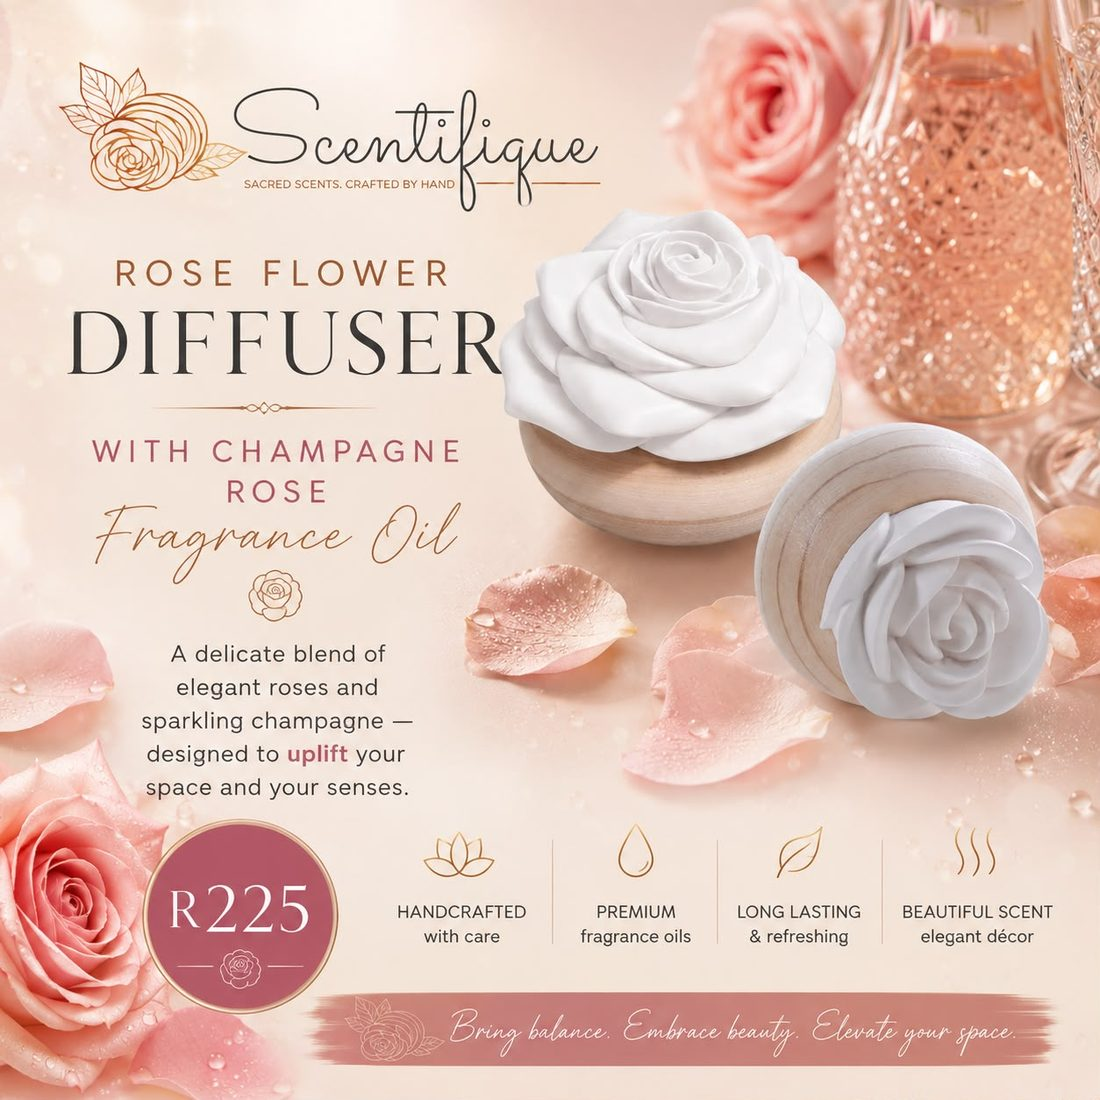
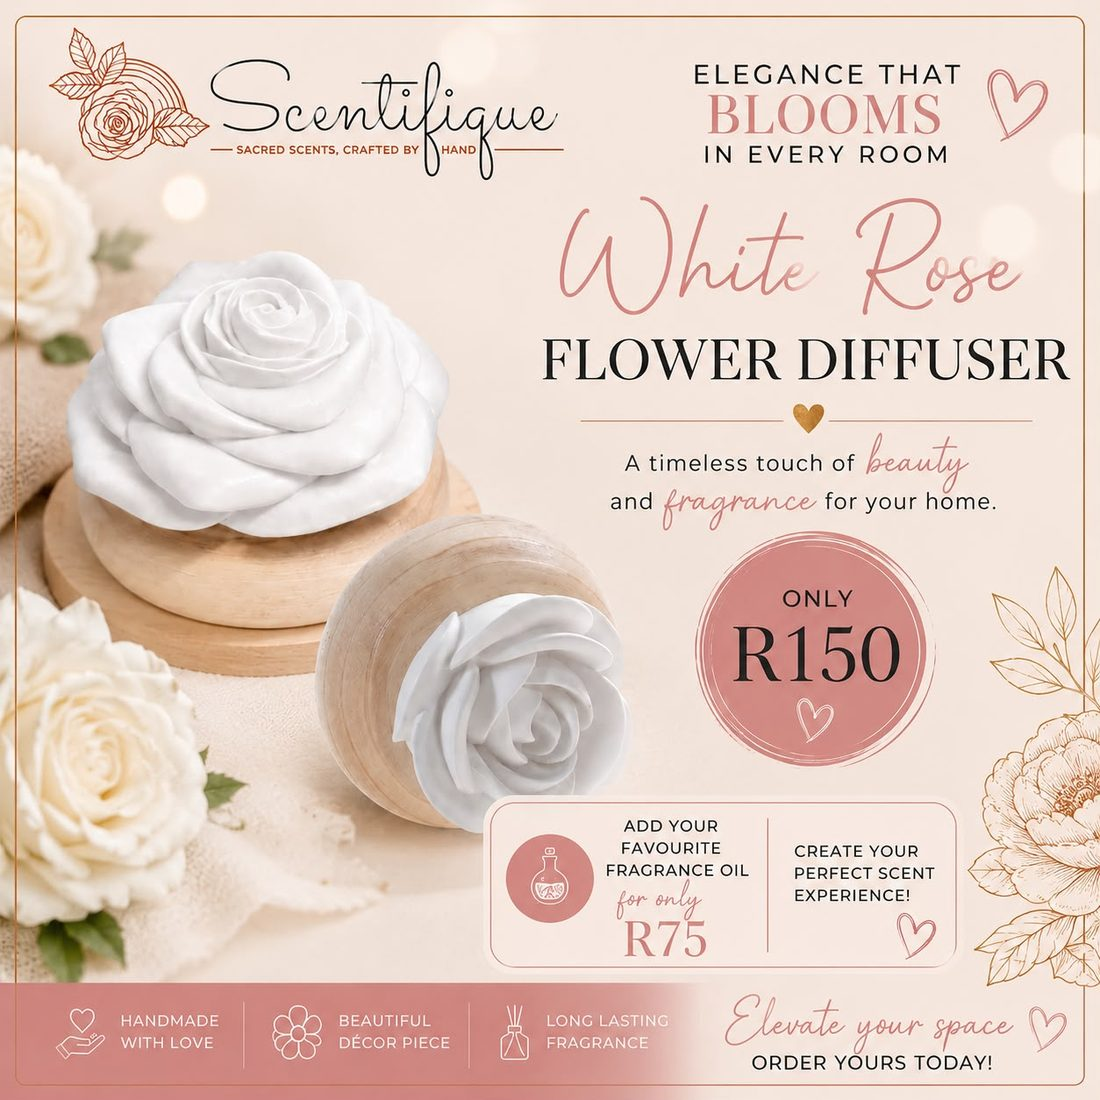
Scentifique: replace diffuser combo cards, remove catalogue, round oil price
- Rose/Lotus/Peony Flower Diffuser combo cards replaced with individual
  product cards and corrected prices: White Rose Flower Diffuser R150,
  White Lotus Flower Diffuser R150, Peony Flower Diffusers R180
  (previously all incorrectly listed at R225 as bundled combos)
- Removed the browsable Product Catalogue section and its nav link
- Fragrance Oil 10ml rounded from R74.99 to R75

diff --git a/scentifique.html b/scentifique.html
@@ -255,8 +255,7 @@ footer{background:var(--bg2);border-top:1px solid var(--border);padding:40px 32p
     <a href="#diffusers">Flower Diffusers</a>
     <a href="#trays">Trays &amp; Decor</a>
     <a href="#gifts">Gift Sets</a>
-    <a href="#catalogue">Catalogue</a>
-  </div>
+      </div>
 </div>
 
 <!-- ══════════════════════════════════════════════════════ -->
@@ -295,7 +294,7 @@ footer{background:var(--bg2);border-top:1px solid var(--border);padding:40px 32p
         <div class="badge badge-gold">Available</div>
         <div class="product-name">Fragrance Oil 10ml</div>
         <div class="product-sub">Handcrafted fragrance oil in 13 scents — see the scent list above and specify when ordering.</div>
-        <div class="product-footer"><span class="product-price">R74.99</span><button class="add-btn" onclick="addToCart('Fragrance Oil 10ml — Scentifique (specify scent)','R74.99','scentifique-fragrance-oil-card.jpg')">+ Add to Order</button></div>
+        <div class="product-footer"><span class="product-price">R75</span><button class="add-btn" onclick="addToCart('Fragrance Oil 10ml — Scentifique (specify scent)','R75','scentifique-fragrance-oil-card.jpg')">+ Add to Order</button></div>
       </div>
     </div>
 
@@ -338,22 +337,22 @@ footer{background:var(--bg2);border-top:1px solid var(--border);padding:40px 32p
     </div>
 
     <div class="product-card">
-      <img src="scentifique-peony-diffuser-combo.jpg" alt="Peony Flower Diffuser with Peony Suede Musk Oil" loading="lazy"/>
+      <img src="scentifique-peony-diffuser-combo.jpg" alt="Peony Flower Diffusers" loading="lazy"/>
       <div class="product-info">
         <div class="badge badge-gold">Available</div>
-        <div class="product-name">Peony Flower Diffuser</div>
+        <div class="product-name">Peony Flower Diffusers</div>
         <div class="product-sub">Handcrafted peony diffuser on a wooden base, paired with Peony Suede Musk fragrance oil.</div>
-        <div class="product-footer"><span class="product-price">R225</span><button class="add-btn" onclick="addToCart('Peony Flower Diffuser + Peony Suede Musk Oil — Scentifique','R225','scentifique-peony-diffuser-combo.jpg')">+ Add to Order</button></div>
+        <div class="product-footer"><span class="product-price">R180</span><button class="add-btn" onclick="addToCart('Peony Flower Diffusers (specify colour) — Scentifique','R180','scentifique-peony-diffuser-combo.jpg')">+ Add to Order</button></div>
       </div>
     </div>
 
     <div class="product-card">
-      <img src="scentifique-rose-diffuser-combo.jpg" alt="Rose Flower Diffuser with Champagne Rose Oil" loading="lazy"/>
+      <img src="scentifique-rose-diffuser-combo.jpg" alt="White Rose Flower Diffuser" loading="lazy"/>
       <div class="product-info">
         <div class="badge badge-gold">Available</div>
-        <div class="product-name">Rose Flower Diffuser</div>
+        <div class="product-name">White Rose Flower Diffuser</div>
         <div class="product-sub">Handcrafted rose diffuser on a wooden base, paired with Champagne Rose fragrance oil.</div>
-        <div class="product-footer"><span class="product-price">R225</span><button class="add-btn" onclick="addToCart('Rose Flower Diffuser + Champagne Rose Oil — Scentifique','R225','scentifique-rose-diffuser-combo.jpg')">+ Add to Order</button></div>
+        <div class="product-footer"><span class="product-price">R150</span><button class="add-btn" onclick="addToCart('White Rose Flower Diffuser — Scentifique','R150','scentifique-rose-diffuser-combo.jpg')">+ Add to Order</button></div>
       </div>
     </div>
 
@@ -369,12 +368,12 @@ footer{background:var(--bg2);border-top:1px solid var(--border);padding:40px 32p
     </div>
 
     <div class="product-card">
-      <img src="scentifique-lotus-diffuser-combo.jpg" alt="Lotus Flower Diffuser with Lotus & Dragonfruit Oil" loading="lazy"/>
+      <img src="scentifique-lotus-diffuser-combo.jpg" alt="White Lotus Flower Diffuser" loading="lazy"/>
       <div class="product-info">
         <div class="badge badge-gold">Available</div>
-        <div class="product-name">Lotus Flower Diffuser</div>
+        <div class="product-name">White Lotus Flower Diffuser</div>
         <div class="product-sub">Handcrafted lotus diffuser on a wooden base, paired with Lotus &amp; Dragonfruit fragrance oil.</div>
-        <div class="product-footer"><span class="product-price">R225</span><button class="add-btn" onclick="addToCart('Lotus Flower Diffuser + Lotus & Dragonfruit Oil — Scentifique','R225','scentifique-lotus-diffuser-combo.jpg')">+ Add to Order</button></div>
+        <div class="product-footer"><span class="product-price">R150</span><button class="add-btn" onclick="addToCart('White Lotus Flower Diffuser — Scentifique','R150','scentifique-lotus-diffuser-combo.jpg')">+ Add to Order</button></div>
       </div>
     </div>
 
@@ -510,54 +509,7 @@ footer{background:var(--bg2);border-top:1px solid var(--border);padding:40px 32p
 </div>
 </section>
 
-<hr class="divider"/>
 
-<!-- ══════════════════════════════════════════════════════ -->
-<!-- SECTION 5 · PRODUCT CATALOGUE -->
-<!-- ══════════════════════════════════════════════════════ -->
-<section id="catalogue">
-<div class="section-inner">
-  <div class="section-eyebrow">Scentifique · Sacred Scents, Crafted by Hand</div>
-  <h2 class="section-title">Browse the Product Catalogue</h2>
-  <p class="catalogue-intro">Tap or click any page to view it full size. See the full Scentifique range — products, prices, colours and descriptions, all in one place.</p>
-
-  <div class="catalogue-grid">
-
-    <div class="catalogue-page-wrap">
-      <img src="scentifique-catalogue-2.jpg" alt="Castle Oil Burner &amp; Essential Fragrance Oil" loading="lazy" onclick="openLightbox(this.src,this.alt)"/>
-    </div>
-
-    <div class="catalogue-page-wrap">
-      <img src="scentifique-catalogue-3.jpg" alt="Rose, Peony &amp; Lotus Diffusers" loading="lazy" onclick="openLightbox(this.src,this.alt)"/>
-    </div>
-
-    <div class="catalogue-page-wrap">
-      <img src="scentifique-catalogue-4.jpg" alt="Centre Piece Peony Diffuser &amp; Sunflower Diffuser" loading="lazy" onclick="openLightbox(this.src,this.alt)"/>
-    </div>
-
-    <div class="catalogue-page-wrap">
-      <img src="scentifique-catalogue-5.jpg" alt="Cream Vintage Tray &amp; Car Wardrobe Diffuser" loading="lazy" onclick="openLightbox(this.src,this.alt)"/>
-    </div>
-
-    <div class="catalogue-page-wrap">
-      <img src="scentifique-catalogue-6.jpg" alt="White Oval Tray with Figurine &amp; Abstract Face Tray" loading="lazy" onclick="openLightbox(this.src,this.alt)"/>
-    </div>
-
-    <div class="catalogue-page-wrap">
-      <img src="scentifique-catalogue-7.jpg" alt="White Oval Tray with Heart Diffusers &amp; Modern Decor Set" loading="lazy" onclick="openLightbox(this.src,this.alt)"/>
-    </div>
-
-    <div class="catalogue-page-wrap">
-      <img src="scentifique-catalogue-8.jpg" alt="Scripture Tray with Flower Diffuser" loading="lazy" onclick="openLightbox(this.src,this.alt)"/>
-    </div>
-
-    <div class="catalogue-page-wrap">
-      <img src="scentifique-catalogue-9.jpg" alt="Prayer Combo Gift Set" loading="lazy" onclick="openLightbox(this.src,this.alt)"/>
-    </div>
-
-  </div>
-</div>
-</section>
 
 <!-- ── FOOTER ── -->
 <footer>
